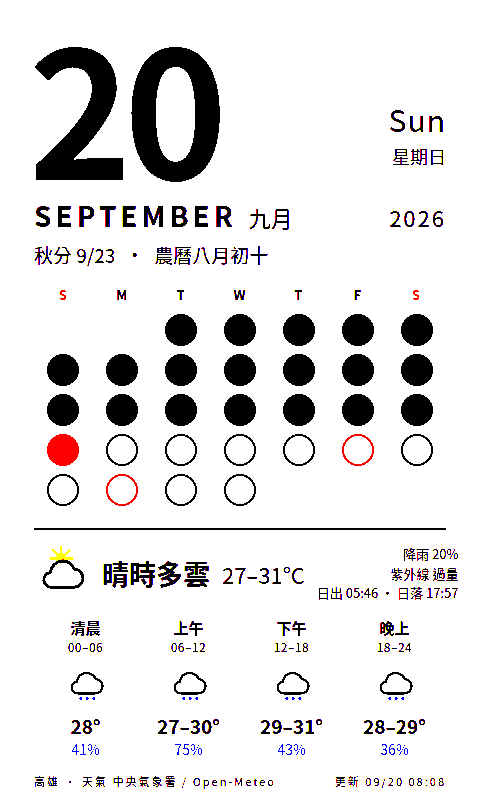
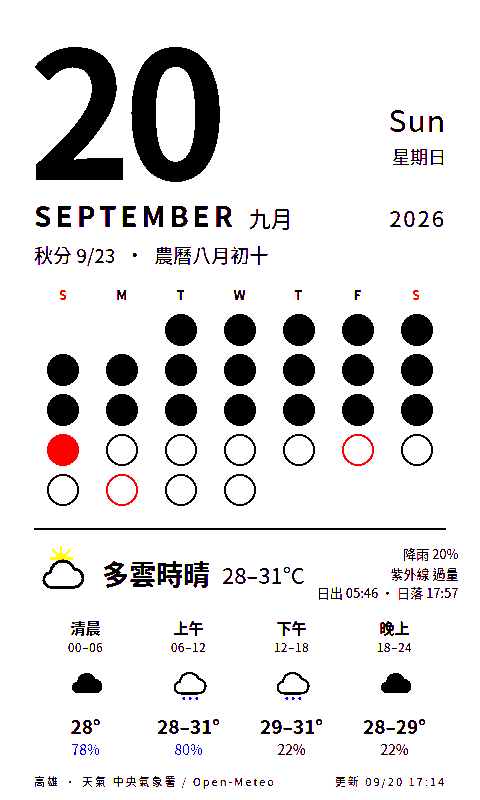
deploy: cf7d1051eb6821bc691ba0ade4beb12cdf9fe0ef

diff --git a/calendar.html b/calendar.html
@@ -54,9 +54,9 @@
   <div class="today"><span class="lunar">秋分 9/23</span><span>·</span><span class="lunar">農曆八月初十</span></div>
   <div class="grid"><div class="h we">S</div><div class="h">M</div><div class="h">T</div><div class="h">W</div><div class="h">T</div><div class="h">F</div><div class="h we">S</div><div class="dot empty"></div><div class="dot empty"></div><div class="dot past" title="1"></div><div class="dot past" title="2"></div><div class="dot past" title="3"></div><div class="dot past" title="4"></div><div class="dot past" title="5"></div><div class="dot past" title="6"></div><div class="dot past" title="7"></div><div class="dot past" title="8"></div><div class="dot past" title="9"></div><div class="dot past" title="10"></div><div class="dot past" title="11"></div><div class="dot past" title="12"></div><div class="dot past" title="13"></div><div class="dot past" title="14"></div><div class="dot past" title="15"></div><div class="dot past" title="16"></div><div class="dot past" title="17"></div><div class="dot past" title="18"></div><div class="dot past" title="19"></div><div class="dot now" title="20"></div><div class="dot future" title="21"></div><div class="dot future" title="22"></div><div class="dot future" title="23"></div><div class="dot future" title="24"></div><div class="dot future hol" title="25"></div><div class="dot future" title="26"></div><div class="dot future" title="27"></div><div class="dot future hol" title="28"></div><div class="dot future" title="29"></div><div class="dot future" title="30"></div></div>
   <div class="wx"><div class="line">
-    <div class="wxhead"><svg viewBox="0 0 64 68" xmlns="http://www.w3.org/2000/svg"><g transform="translate(12 -4) scale(.6)"><circle cx="32" cy="32" r="11" fill="#f5c400"/><g stroke="#f5c400" stroke-width="4" stroke-linecap="round"><line x1="32" y1="32" x2="32" y2="8" transform="rotate(0 32 32)"/><line x1="32" y1="32" x2="32" y2="8" transform="rotate(45 32 32)"/><line x1="32" y1="32" x2="32" y2="8" transform="rotate(90 32 32)"/><line x1="32" y1="32" x2="32" y2="8" transform="rotate(135 32 32)"/><line x1="32" y1="32" x2="32" y2="8" transform="rotate(180 32 32)"/><line x1="32" y1="32" x2="32" y2="8" transform="rotate(225 32 32)"/><line x1="32" y1="32" x2="32" y2="8" transform="rotate(270 32 32)"/><line x1="32" y1="32" x2="32" y2="8" transform="rotate(315 32 32)"/></g></g><path d="M20 50h26a11 11 0 0 0 1-22 15 15 0 0 0-29 4 9 9 0 0 0 2 18z" fill="#fff" stroke="#000" stroke-width="3.5" stroke-linejoin="round"/></svg><span class="desc">晴時多雲</span><span class="temp">27–31°C</span>
+    <div class="wxhead"><svg viewBox="0 0 64 68" xmlns="http://www.w3.org/2000/svg"><g transform="translate(12 -4) scale(.6)"><circle cx="32" cy="32" r="11" fill="#f5c400"/><g stroke="#f5c400" stroke-width="4" stroke-linecap="round"><line x1="32" y1="32" x2="32" y2="8" transform="rotate(0 32 32)"/><line x1="32" y1="32" x2="32" y2="8" transform="rotate(45 32 32)"/><line x1="32" y1="32" x2="32" y2="8" transform="rotate(90 32 32)"/><line x1="32" y1="32" x2="32" y2="8" transform="rotate(135 32 32)"/><line x1="32" y1="32" x2="32" y2="8" transform="rotate(180 32 32)"/><line x1="32" y1="32" x2="32" y2="8" transform="rotate(225 32 32)"/><line x1="32" y1="32" x2="32" y2="8" transform="rotate(270 32 32)"/><line x1="32" y1="32" x2="32" y2="8" transform="rotate(315 32 32)"/></g></g><path d="M20 50h26a11 11 0 0 0 1-22 15 15 0 0 0-29 4 9 9 0 0 0 2 18z" fill="#fff" stroke="#000" stroke-width="3.5" stroke-linejoin="round"/></svg><span class="desc">多雲時晴</span><span class="temp">28–31°C</span>
       <div class="meta">降雨 20%<br>紫外線 過量<br>日出 05:46 · 日落 17:57</div></div>
-    <div class="slots"><div class="slot"><div class="n">清晨</div><div class="hrs">00–06</div><svg viewBox="0 0 64 68" xmlns="http://www.w3.org/2000/svg"><path d="M20 50h26a11 11 0 0 0 1-22 15 15 0 0 0-29 4 9 9 0 0 0 2 18z" fill="#fff" stroke="#000" stroke-width="3.5" stroke-linejoin="round"/><g fill="#0040ff"><circle cx="24" cy="58" r="2.2"/><circle cx="34" cy="58" r="2.2"/><circle cx="44" cy="58" r="2.2"/></g></svg><div class="t">28°</div><div class="p ">41%</div></div><div class="slot"><div class="n">上午</div><div class="hrs">06–12</div><svg viewBox="0 0 64 68" xmlns="http://www.w3.org/2000/svg"><path d="M20 50h26a11 11 0 0 0 1-22 15 15 0 0 0-29 4 9 9 0 0 0 2 18z" fill="#fff" stroke="#000" stroke-width="3.5" stroke-linejoin="round"/><g fill="#0040ff"><circle cx="24" cy="58" r="2.2"/><circle cx="34" cy="58" r="2.2"/><circle cx="44" cy="58" r="2.2"/></g></svg><div class="t">27–30°</div><div class="p ">75%</div></div><div class="slot"><div class="n">下午</div><div class="hrs">12–18</div><svg viewBox="0 0 64 68" xmlns="http://www.w3.org/2000/svg"><path d="M20 50h26a11 11 0 0 0 1-22 15 15 0 0 0-29 4 9 9 0 0 0 2 18z" fill="#fff" stroke="#000" stroke-width="3.5" stroke-linejoin="round"/><g fill="#0040ff"><circle cx="24" cy="58" r="2.2"/><circle cx="34" cy="58" r="2.2"/><circle cx="44" cy="58" r="2.2"/></g></svg><div class="t">29–31°</div><div class="p ">43%</div></div><div class="slot"><div class="n">晚上</div><div class="hrs">18–24</div><svg viewBox="0 0 64 68" xmlns="http://www.w3.org/2000/svg"><path d="M20 50h26a11 11 0 0 0 1-22 15 15 0 0 0-29 4 9 9 0 0 0 2 18z" fill="#fff" stroke="#000" stroke-width="3.5" stroke-linejoin="round"/><g fill="#0040ff"><circle cx="24" cy="58" r="2.2"/><circle cx="34" cy="58" r="2.2"/><circle cx="44" cy="58" r="2.2"/></g></svg><div class="t">28–29°</div><div class="p ">36%</div></div></div>
+    <div class="slots"><div class="slot"><div class="n">清晨</div><div class="hrs">00–06</div><svg viewBox="0 0 64 68" xmlns="http://www.w3.org/2000/svg"><path d="M20 50h26a11 11 0 0 0 1-22 15 15 0 0 0-29 4 9 9 0 0 0 2 18z" fill="#000"/></svg><div class="t">28°</div><div class="p ">78%</div></div><div class="slot"><div class="n">上午</div><div class="hrs">06–12</div><svg viewBox="0 0 64 68" xmlns="http://www.w3.org/2000/svg"><path d="M20 50h26a11 11 0 0 0 1-22 15 15 0 0 0-29 4 9 9 0 0 0 2 18z" fill="#fff" stroke="#000" stroke-width="3.5" stroke-linejoin="round"/><g fill="#0040ff"><circle cx="24" cy="58" r="2.2"/><circle cx="34" cy="58" r="2.2"/><circle cx="44" cy="58" r="2.2"/></g></svg><div class="t">28–31°</div><div class="p ">80%</div></div><div class="slot"><div class="n">下午</div><div class="hrs">12–18</div><svg viewBox="0 0 64 68" xmlns="http://www.w3.org/2000/svg"><path d="M20 50h26a11 11 0 0 0 1-22 15 15 0 0 0-29 4 9 9 0 0 0 2 18z" fill="#fff" stroke="#000" stroke-width="3.5" stroke-linejoin="round"/><g fill="#0040ff"><circle cx="24" cy="58" r="2.2"/><circle cx="34" cy="58" r="2.2"/><circle cx="44" cy="58" r="2.2"/></g></svg><div class="t">29–31°</div><div class="p dry">22%</div></div><div class="slot"><div class="n">晚上</div><div class="hrs">18–24</div><svg viewBox="0 0 64 68" xmlns="http://www.w3.org/2000/svg"><path d="M20 50h26a11 11 0 0 0 1-22 15 15 0 0 0-29 4 9 9 0 0 0 2 18z" fill="#000"/></svg><div class="t">28–29°</div><div class="p dry">22%</div></div></div>
   </div></div>
-  <div class="foot"><span>高雄 · 天氣 中央氣象署 / Open-Meteo</span><span>更新 09/20 08:08</span></div>
+  <div class="foot"><span>高雄 · 天氣 中央氣象署 / Open-Meteo</span><span>更新 09/20 17:14</span></div>
 </div></body></html>
